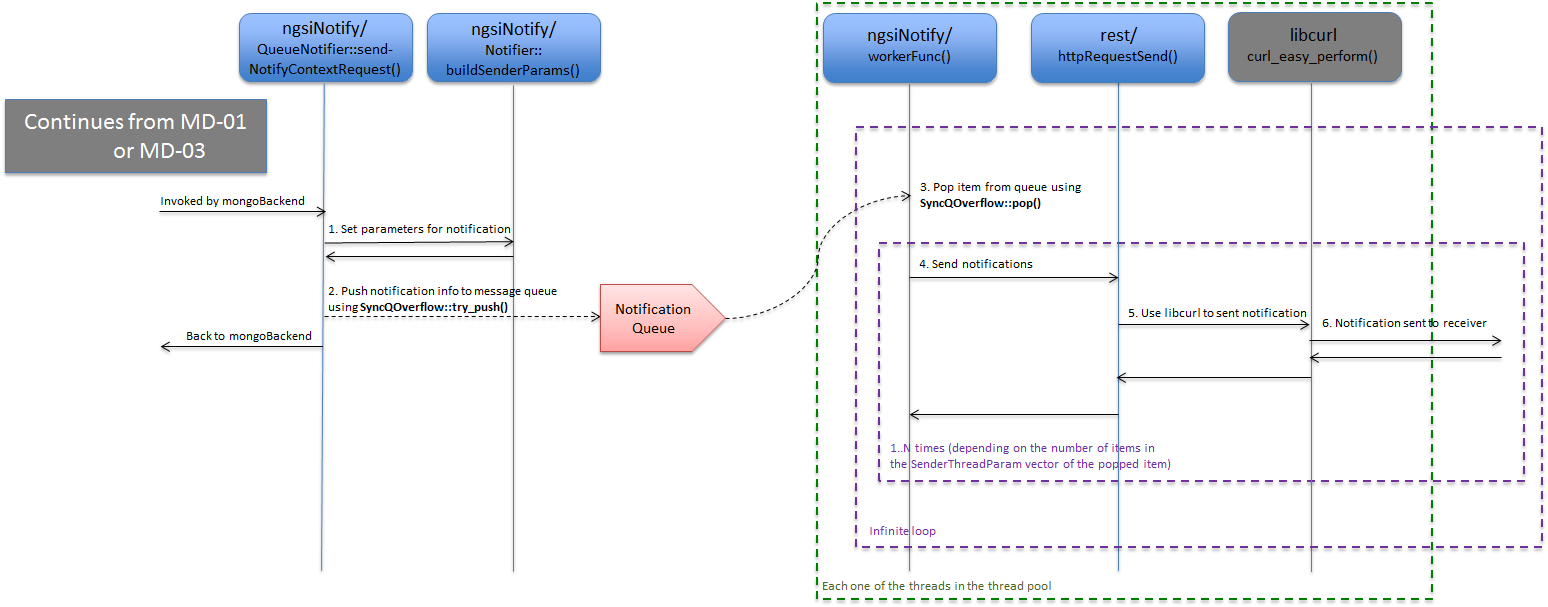
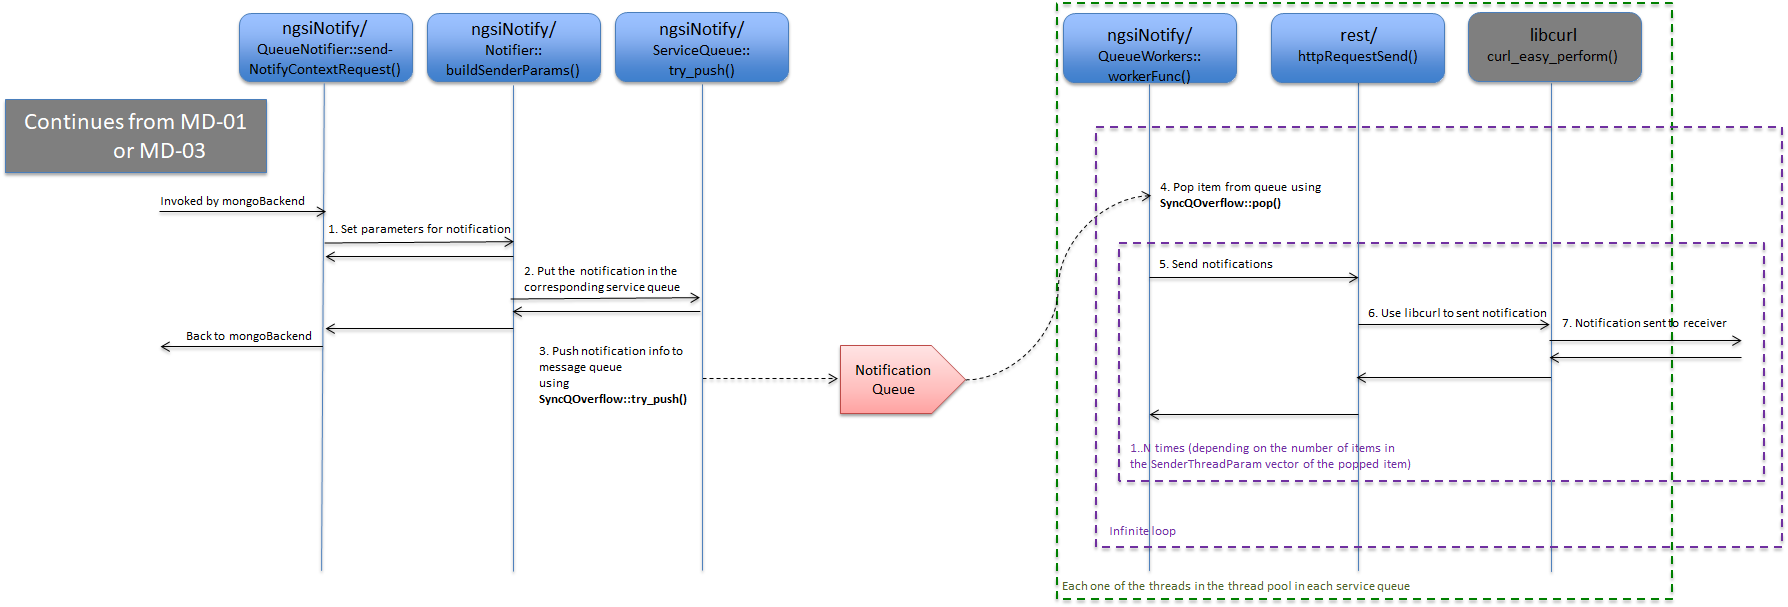
FIX devel manual doc

diff --git a/doc/manuals/devel/sourceCode.md b/doc/manuals/devel/sourceCode.md
@@ -18,7 +18,7 @@
 * [src/lib/convenience/](#srclibconvenience) (Convenience operations in NGSIv1)
 * [src/lib/mongoBackend/](#srclibmongobackend) (Database operations implementation)
 * [src/lib/mongoDriver/](#srclibmongodriver) (Database interface to MongoDB)
-* [src/lib/ngsiNotify/](#srclibngsinotify) (NGSIv1 notifications)
+* [src/lib/ngsiNotify/](#srclibngsinotify) (NGSI notifications)
 * [src/lib/alarmMgr/](#srclibalarmmgr) (Alarm Manager implementation)
 * [src/lib/cache/](#srclibcache) (Subscription cache implementation)
 * [src/lib/logSummary/](#srcliblogsummary) (Log Summary implementation)
@@ -448,10 +448,6 @@ When an entity is created or modified or when a subscription is created or modif
 [**mongoBackend**](#srclibmongobackend) decides when to notify and **ngsiNotify** executes the notification, with the help of the external library [libcurl](https://curl.haxx.se/libcurl/).
 Actually, a function from the [**rest** library](#srclibrest) is used: `httpRequestSend()`. Another important aspect of this library is that the notifications are sent by separate threads, using a thread pool if desired.
 
-We have subscriptions both for *context entities* and for *availability registrations* and thus, there are two types of notifications. Context entity subscriptions are by far more important (registration subscriptions are barely used at all) and the thread pool for notifications is used for context entity subscriptions only.
-
-### Context entities notifications
-
 Using the [CLI parameter](../admin/cli.md) `-notificationMode`, Orion can be started with a thread pool for sending of notifications (`-notificationMode threadpool`). If so, during Orion startup, a pool of threads is created and these threads await new items in the notification queue and when an item becomes present, it is taken from the queue and processed, sending the notification in question. If the thread pool is not used, then a thread will be created for each notification to be sent (default value of `-notificationMode` is "transient", which gives this behaviour). More information on notification modes can be found in [this section of the Orion administration manual](../admin/perf_tuning.md#notification-modes-and-performance).
 
 The invoking function in the case of notification due to attribute update/creation is `processOnChangeConditionForUpdateContext()` (see the diagram [MD-01](mongoBackend.md#flow-md-01)) and the invoking function in the case of notification due to subscription creation/update (what is called "initial notification" is `processOnChangeConditionForUpdateContext()` (see the diagram [MD-03](mongoBackend.md#flow-md-03)).
@@ -474,9 +470,12 @@ _NF-01: Notification on entity-attribute Update/Creation without thread pool_
 _NF-03: Notification on entity-attribute Update/Creation with thread pool_
 
 * A vector of `SenderThreadParams` is built, each item of this vector corresponding to one notification (step 1).
-* The vector is pushed onto the Notification Message Queue and control is returned to mongoBackend (step 2). This is done using `SyncQOverflow::try_push()`, which uses the notification queue semaphore to synchronize access to the queue (see [this document for more detail](semaphores.md#notification-queue-semaphore)). The threads that receive from the queue take care of sending the notification asap.
-* One of the worker threads in the thread pool pops an item from the message queue (step 3). This is done using SyncQOverflow::pop()`, which uses the notification queue semaphore to synchronize access to the queue.
-* The worker thread loops over the `SenderThreadParam` vector of the popped queue item and sends one notification per `SenderThreadParams` item in the vector (steps 4, 5 and 6). The response from the receiver of the notification is waited on (with a timeout), and all notifications are done in a serialized manner.
+* A `ServiceQueue` is selected depending the service associated to the notification. If no queue exists for the service
+  associated to the notification, then the default `ServiceQueue` is used. The `try_push()` method in the selected
+  `ServiceQueue` is used to put the notification in the right queue (step 2).
+* The vector is pushed onto the Notification Message Queue (step 3). This is done using `SyncQOverflow::try_push()`, which uses the notification queue semaphore to synchronize access to the queue (see [this document for more detail](semaphores.md#notification-queue-semaphore)). The threads that receive from the queue take care of sending the notification asap.
+* One of the worker threads in the thread pool pops an item from the message queue (step 4). This is done using SyncQOverflow::pop()`, which uses the notification queue semaphore to synchronize access to the queue.
+* The worker thread loops over the `SenderThreadParam` vector of the popped queue item and sends one notification per `SenderThreadParams` item in the vector (steps 5, 6 and 7). The response from the receiver of the notification is waited on (with a timeout), and all notifications are done in a serialized manner.
 * After that, the worker thread sleeps, waiting to wake up when a new item in the queue needs to be processed.
 
 ## src/lib/alarmMgr/

diff --git a/doc/manuals/devel/semaphores.md b/doc/manuals/devel/semaphores.md
@@ -156,7 +156,8 @@ The semaphore is initialized in the function `lmSemInit()` and used in the two s
 [Top](#top)
 
 ## Notification queue semaphore
-When a thread pool is used (using the [CLI parameter](../admin/cli.md) `-notificationMode`), for sending of notifications, a queue is used to feed the notifications to the workers in the thread pool. This queue is protected by a semaphore. 
+When thread pools are used (using the [CLI parameter](../admin/cli.md) `-notificationMode`), for sending of notifications, a queue is used to feed the notifications to the workers in the thread pool. This queue is protected by a semaphore.
+If serveral queues are used (i.e. a default queue and a per-service queues) then a semaphore exists in each queue.
 
 The semaphore, of type `boost::mutex`, is called `mtx` and it is a private member of the class `SyncQOverflow`, found in `src/lib/common/SyncQOverflow.h`:
 
@@ -176,7 +177,8 @@ public:
   size_t   size() const;
 };
 ```
-The class `QueueWorkers` includes a private member of type `SyncQOverflow`, while the class `QueueNotifier` includes a private member of type `QueueWorkers`.
+Both classes `QueueWorkers` and `ServiceQueue` include a private member of type `SyncQOverflow`, while the class `ServiceQueue` also includes a private member of type `QueueWorkers`.
+Class `QueueNotifier` may include a vector of per-service `ServiceQueue` and also a default `ServiceQueue` (for notifications not associated to any service with reserved queue).
 
 Finally, `contextBrokerInit()` in `src/app/contextBroker/contextBroker.cpp` creates an instance of `QueueNotifier` as a singleton, when requested (when CLI parameter `-notificationMode` equals **threadpool**).
 
